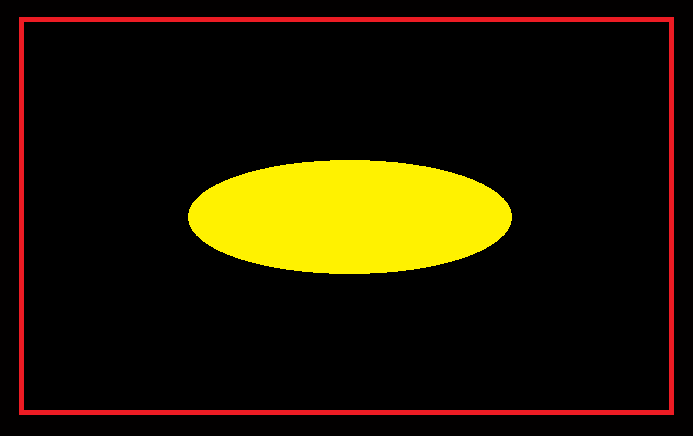
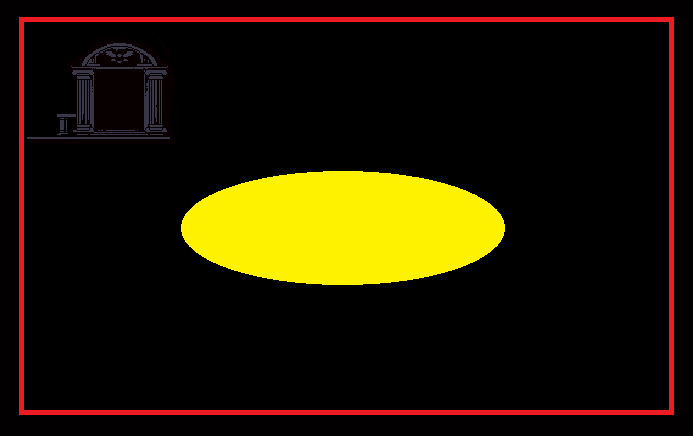
Add files via upload

Changed region(s): [[0.0303, 0.0894, 0.2424, 0.328], [0.2727, 0.3578, 0.7576, 0.5367], [0.2424, 0.4771, 0.7273, 0.656]]

diff --git a/main.py b/main.py
@@ -33,39 +33,41 @@ class Player(pygame.sprite.Sprite):
 class PlayerAct1(Player):
     def __init__(self, pos_x, pos_y):
         super().__init__(pos_x, pos_y)
+        self.CanPlay = True
 
     def update(self, move_up, move_down, move_left, move_right):
         global all_sprites, background, player, player_group
         image = self.image
-        if move_left:
-            self.rect.x -= 6
-            self.x -= 6
-            if background.get_rgb(self.x, self.y) == (2, 0, 0):
-                self.rect.x += 6
-                self.x += 6
-            image = load_image('m.c.left_stop.jpg')
-        if move_right:
-            self.rect.x += 6
-            self.x += 6
-            if background.get_rgb(self.x, self.y) == (2, 0, 0):
+        if self.CanPlay:
+            if move_left:
                 self.rect.x -= 6
                 self.x -= 6
-            image = load_image('m.c.right_stop.jpg')
-        if move_up:
-            self.rect.y -= 6
-            self.y -= 6
-            if background.get_rgb(self.x, self.y) == (2, 0, 0):
-                self.rect.y += 6
-                self.y += 6
-            image = load_image('m.c.back_stop.jpg')
-        if move_down:
-            self.rect.y += 6
-            self.y += 6
-            if background.get_rgb(self.x, self.y) == (2, 0, 0):
+                if background.get_rgb(self.x, self.y) == (2, 0, 0):
+                    self.rect.x += 6
+                    self.x += 6
+                image = load_image('m.c.left_stop.jpg')
+            if move_right:
+                self.rect.x += 6
+                self.x += 6
+                if background.get_rgb(self.x, self.y) == (2, 0, 0):
+                    self.rect.x -= 6
+                    self.x -= 6
+                image = load_image('m.c.right_stop.jpg')
+            if move_up:
                 self.rect.y -= 6
                 self.y -= 6
-            image = load_image('m.c.front_stop.jpg')
-        self.image = pygame.transform.scale(image, (40, 60))
+                if background.get_rgb(self.x, self.y) == (2, 0, 0):
+                    self.rect.y += 6
+                    self.y += 6
+                image = load_image('m.c.back_stop.jpg')
+            if move_down:
+                self.rect.y += 6
+                self.y += 6
+                if background.get_rgb(self.x, self.y) == (2, 0, 0):
+                    self.rect.y -= 6
+                    self.y -= 6
+                image = load_image('m.c.front_stop.jpg')
+            self.image = pygame.transform.scale(image, (40, 60))
         if background.get_rgb(self.x, self.y) == (10, 0, 0):
             all_sprites = pygame.sprite.Group()
             player_group = pygame.sprite.Group()
@@ -78,6 +80,13 @@ class PlayerAct1(Player):
             background = Background('a1_m3.jpg', (1300, 600))
             all_sprites.add(background)
             player = PlayerAct1(750, 500)
+        elif background.get_rgb(self.x, self.y) == (8, 0, 0):
+            all_sprites = pygame.sprite.Group()
+            player_group = pygame.sprite.Group()
+            background = Background('a1_m4.jpg', (700, 500))
+            all_sprites.add(background)
+            player = PlayerAct1(335, 275)
+            player.CanPlay = False
 
 
 class Background(pygame.sprite.Sprite):
@@ -226,14 +235,14 @@ if __name__ == '__main__':
 
         screen.fill((0, 0, 0))
         camera.update(player)
+        # обновляем положение всех спрайтов
+        for sprite in all_sprites:
+            camera.apply(sprite)
         # Обновление игровых объектов
         player.update(keys[pygame.K_UP], keys[pygame.K_DOWN],
                       keys[pygame.K_LEFT], keys[pygame.K_RIGHT])
         player.update(keys[pygame.K_w], keys[pygame.K_s],
                       keys[pygame.K_a], keys[pygame.K_d])
-        # обновляем положение всех спрайтов
-        for sprite in all_sprites:
-            camera.apply(sprite)
         all_sprites.draw(screen)
         player_group.draw(screen)
 
